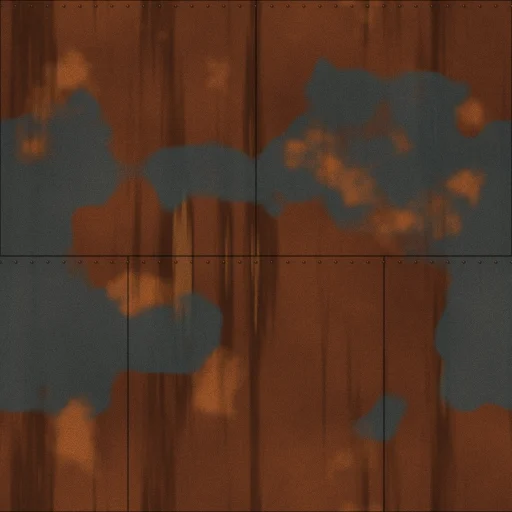
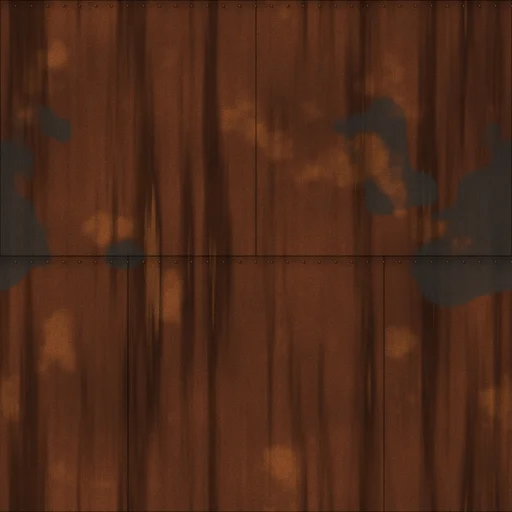
v215 (in progress): art pass checkpoint 2 - the wreck, Bunker B-01 and the Jungle Ruin
The wreck is a rust-streaked coastal freighter (lofted hull, bridge and funnel,
hatches, derrick mast and booms); B-01 wears camouflage, a stencilled lintel,
gates, a railing and scrub; the ruin has a voussoir arch, fluted columns, a
pedestal (with a new small collider), a paved path and vines. Other colliders
unchanged.

Claude-Session: https://claude.ai/code/session_01FaNYhq8JxVYnphtHwfjo3U

diff --git a/scripts/island-textures.paint.js b/scripts/island-textures.paint.js
@@ -119,9 +119,9 @@ function stone(n){
     const b=fbm(u,v,6,5,75),grain=hash(Math.floor(u*n),Math.floor(v*n),13)-.5,pit=hash(Math.floor(u*n*.5),Math.floor(v*n*.5),14),weather=fbm(u,v,16,4,15);
     let col=mix([98,98,90],[154,150,138],b*.6+weather*.4);col=shade(col,.8+.32*hash(id,1,76));if(pit>.97)col=shade(col,.62);
     col=mix(col,[92,84,70],smooth(.6,.8,fbm(u,v,10,3,16))*.35);                  // iron-brown weathering
-    const chip=fbm(u,v,30,3,77)*.05;const joint=smooth(.035+chip,.012,edge);
-    col=shade(col,1-smooth(.14,.04,edge)*.25);                                   // worn arrises
-    col=mix(col,[34,36,30],joint);                                               // the joints
+    const chip=fbm(u,v,30,3,77)*.04;const joint=smooth(.022+chip,.006,edge);
+    col=shade(col,1-smooth(.12,.02,edge)*.16);                                   // worn arrises
+    col=mix(col,[58,60,52],joint*.85);                                           // the joints
     const moss=smooth(.6,.76,fbm(u,v,5,4,78)+smooth(.3,0,fv)*.14+joint*.18);col=mix(col,mix([44,64,32],[70,92,44],fbm(u,v,14,3,82)),moss*.7);   // moss: in patches, on top of each course and in its joints
     const cc=cells(u,v,9,79,1),crack=smooth(.018,0,cc.f2-cc.f1)*(hash(cc.id,4,80)>.82?1:0);col=shade(col,1-crack*.45);
     return shade(col,1+grain*.1);});}
@@ -134,14 +134,16 @@ function paving(n){
     col=mix(col,[56,82,38],smooth(.62,.78,fbm(u,v,6,4,87))*.6);                // moss creeping over the flags
     col=mix(col,mix([46,64,30],[70,58,40],fbm(u,v,20,3,88)),smooth(.07,.035,gap));   // grass and soil between them
     return shade(col,1+grain*.1);});}
-// Rusted steel plate: rust and old paint, streaks running down, seams and rivets.
+// Rusted steel plate: deep rust, brighter where it is flaking, streaks running down from every
+// seam, a little old dark paint left; the plates' seams and rivets.
 function rust(n){
   seed=91;
-  const c=pixels(n,(u,v)=>{const b=fbm(u,v,5,6,91),streak=afbm(u,v,30,2,4,93),blot=fbm(u,v,7,4,95),grain=hash(Math.floor(u*n),Math.floor(v*n),17)-.5;
-    let col=mix([70,36,22],[120,62,32],b);col=mix(col,[166,90,42],smooth(.6,.8,blot)*.7);
-    col=shade(col,1-smooth(.45,.75,streak)*.35);col=mix(col,[176,104,52],smooth(.72,.86,streak)*.5);
-    const paint=smooth(.56,.6,fbm(u,v,3,4,97));col=mix(col,mix([46,56,58],[64,74,72],b),paint*.85*(1-smooth(.62,.8,blot)));   // what's left of the dark paint
-    const plateV=(v*2)%1,plateU=(u*2+Math.floor(v*2)*.5)%1,seam=smooth(.006,0,Math.min(plateV,1-plateV))+smooth(.006,0,Math.min(plateU,1-plateU));col=shade(col,1-clamp(seam)*.5);
+  const c=pixels(n,(u,v)=>{const b=fbm(u,v,5,6,91),streak=afbm(u,v,36,2,4,93),fine=afbm(u,v,90,6,3,94),blot=fbm(u,v,9,4,95),grain=hash(Math.floor(u*n),Math.floor(v*n),17)-.5;
+    let col=mix([64,34,22],[112,58,32],b);col=mix(col,[150,82,40],smooth(.62,.82,blot)*.6);
+    col=shade(col,1-smooth(.4,.75,streak)*.42);col=mix(col,[168,96,48],smooth(.74,.88,streak)*.45);col=shade(col,.92+.16*fine);
+    const paint=smooth(.68,.72,fbm(u,v,4,4,97));col=mix(col,mix([38,38,36],[56,54,50],b),paint*.75*(1-smooth(.6,.8,blot)));   // what's left of the dark paint
+    const plateV=(v*2)%1,plateU=(u*2+Math.floor(v*2)*.5)%1,seam=smooth(.005,0,Math.min(plateV,1-plateV))+smooth(.005,0,Math.min(plateU,1-plateU));col=shade(col,1-clamp(seam)*.45);
+    col=shade(col,1-smooth(.06,0,plateV)*.18);                                     // rust weeping below each seam
     return shade(col,1+grain*.14);});
   wrapped(c,(x,n)=>{// rivets along the seams
     for(let row=0;row<2;row++)for(let k=0;k<32;k++){const px=k/32*n,py=row*n/2+n*.012;x.fillStyle='rgba(40,20,12,.7)';x.beginPath();x.arc(px,py,1.6,0,7);x.fill();x.fillStyle='rgba(190,120,70,.5)';x.beginPath();x.arc(px-.4,py-.4,.8,0,7);x.fill();}});
@@ -221,8 +223,20 @@ function leaves(n){
     leaf(x,cx,cy,a+(rand()-.5)*.8,len,len*.32,`rgb(${30+rand()*20|0},${g|0},${28+rand()*16|0})`,'rgba(120,160,90,.55)');}
   return c;}
 
+// Stencilled lettering for Bunker B-01's lintel: its number on the left, its year on the right,
+// in black paint, flaked (design spec 10.4, after the reference's "USED 1942").
+function stencil(n){
+  seed=191;const c=document.createElement('canvas');c.width=n;c.height=n/4;const x=c.getContext('2d'),h=n/4;
+  x.fillStyle='rgb(22,22,20)';x.font=`bold ${Math.round(h*.62)}px "DejaVu Sans Mono","Liberation Mono",monospace`;x.textBaseline='middle';
+  x.textAlign='left';x.fillText('B-01',h*.25,h*.54);x.textAlign='right';x.fillText('1942',n-h*.25,h*.54);
+  // Stencil bridges: thin gaps cut through each letter, then flaking.
+  x.globalCompositeOperation='destination-out';
+  for(const cx of [h*.25,n-h*.25-h*1.55])for(let k=0;k<4;k++){x.fillRect(cx+h*(.18+k*.37),h*.2,h*.035,h*.7);}
+  for(let i=0;i<260;i++){x.beginPath();x.arc(rand()*n,rand()*h,.6+rand()*2.4,0,7);x.fill();}
+  x.globalCompositeOperation='source-over';
+  return c;}
 const OPAQUE={sand:[sand,1024],grass:[grass,1024],dirt:[dirt,1024],rock:[rock,1024],concrete:[concrete,512],camo:[camo,512],stone:[stone,512],paving:[paving,512],rust:[rust,512],wood:[wood,512],thatch:[thatch,512],cloth:[cloth,512],bark:[bark,512]};
-const CARDS={frond:[frond,512],fern:[fern,512],tuft:[tuft,256],vines:[vines,512],leaves:[leaves,512]};
+const CARDS={frond:[frond,512],fern:[fern,512],tuft:[tuft,256],vines:[vines,512],leaves:[leaves,512],stencil:[stencil,512]};
 window.paintIslandTextures=(quality=.86)=>{
   const out={};
   for(const [name,[f,n]] of Object.entries(OPAQUE))out[name]=f(n).toDataURL('image/webp',quality);
